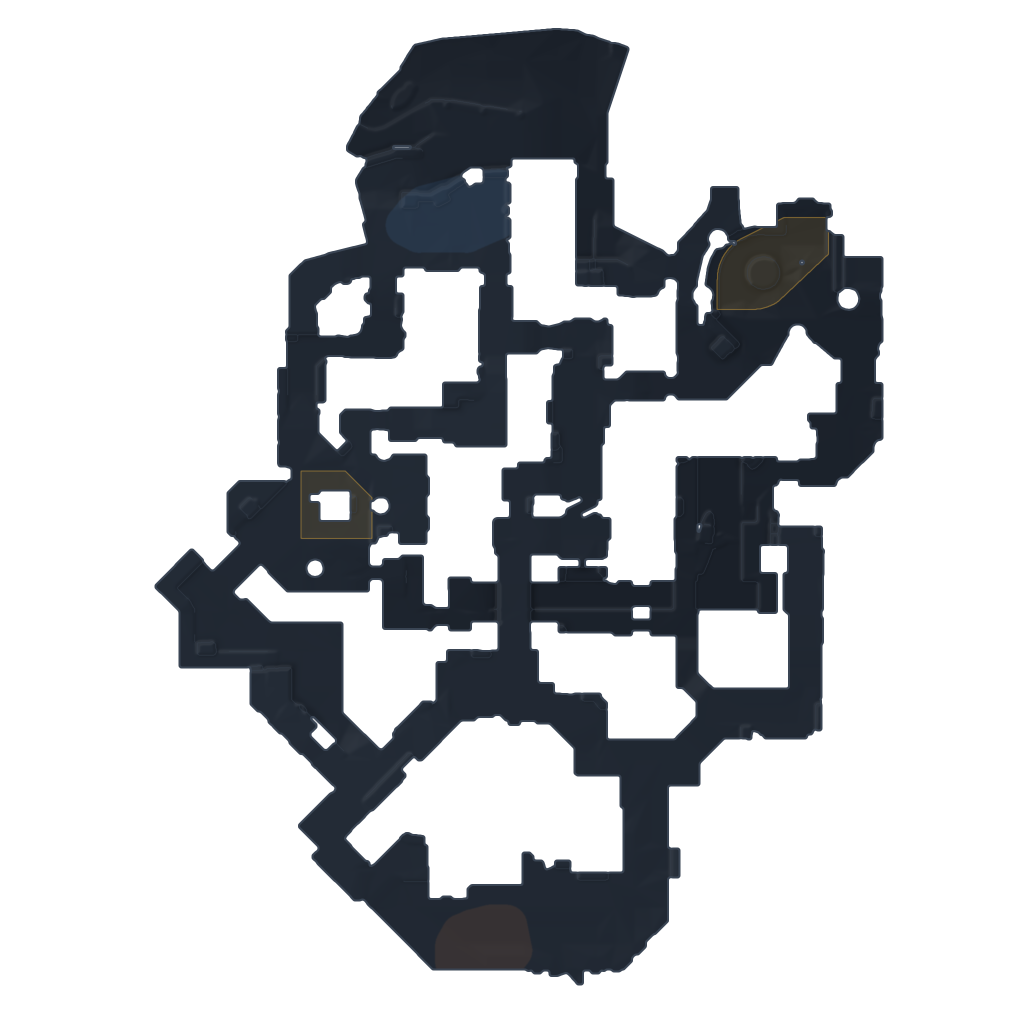
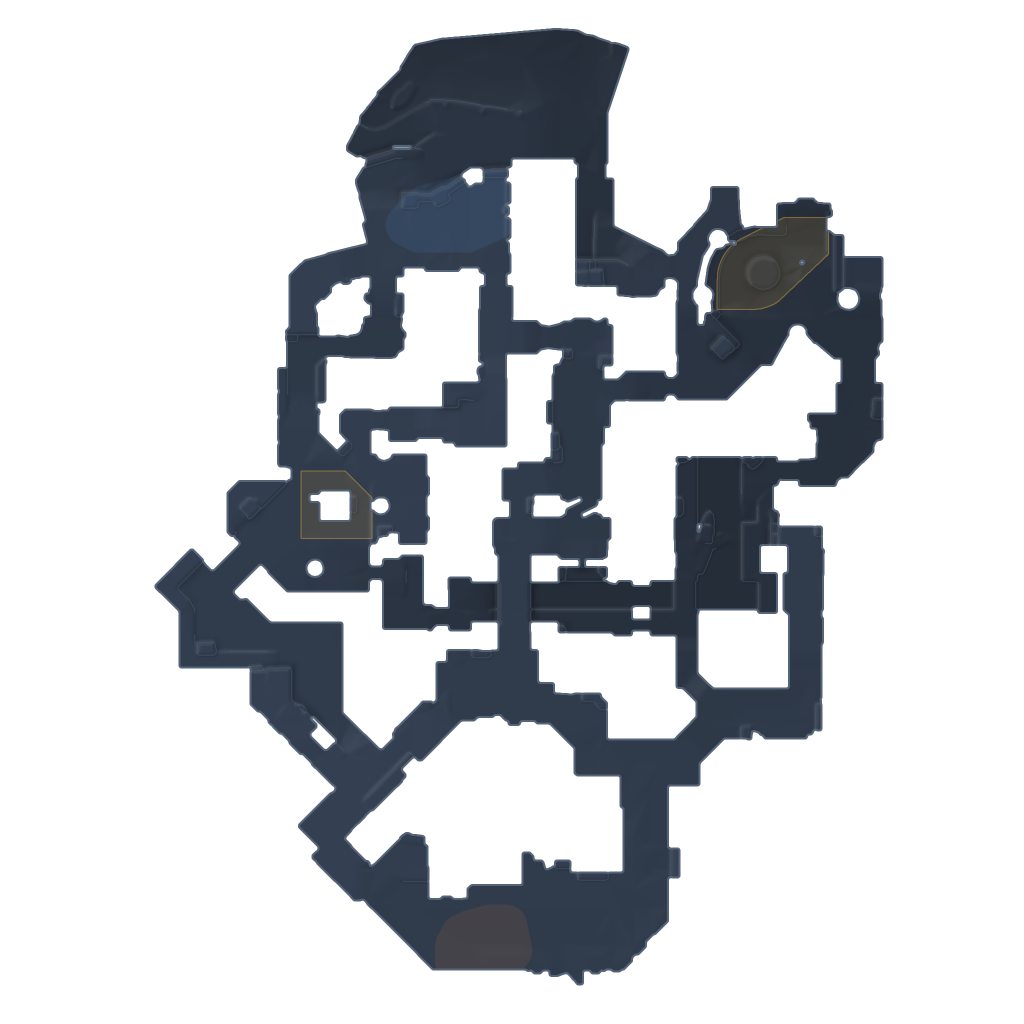
Brighter radar art so corridors read against the radar background
Walkable #252D39-#344052 (was #1A2029-#232B36) and walls #566477 (was
#3A4554): in the live canvas the old values sat too close to the panel
ink and the map barely separated from the background.

diff --git a/scripts/bake-radar-art.ts b/scripts/bake-radar-art.ts
@@ -48,15 +48,15 @@ const N = OUT * SS // working raster size
 
 /** Design system v2 radar palette. */
 const PALETTE = {
-    low: rgb('#1A2029'), // walkable, lowest ground of the floor
-    high: rgb('#232B36'), // walkable, highest ground of the floor
-    wall: rgb('#3A4554'),
+    low: rgb('#252D39'), // walkable, lowest ground of the floor
+    high: rgb('#344052'), // walkable, highest ground of the floor
+    wall: rgb('#566477'),
     site: rgb('#F2B53A'),
     ct: rgb('#5AA9FF'),
     t: rgb('#FF8A3D'),
     ladder: rgb('#8693A6'),
-    ghost: rgb('#0D1116'), // other floor's footprint on lower-floor images
-    ghostEdge: rgb('#161C24'),
+    ghost: rgb('#11161D'), // other floor's footprint on lower-floor images
+    ghostEdge: rgb('#202833'),
 }
 const ALPHA = { site: 0.12, siteEdge: 0.4, spawn: 0.1, ledge: 0.5, shadow: 0.18, light: 0.06, dark: 0.1 }
 
